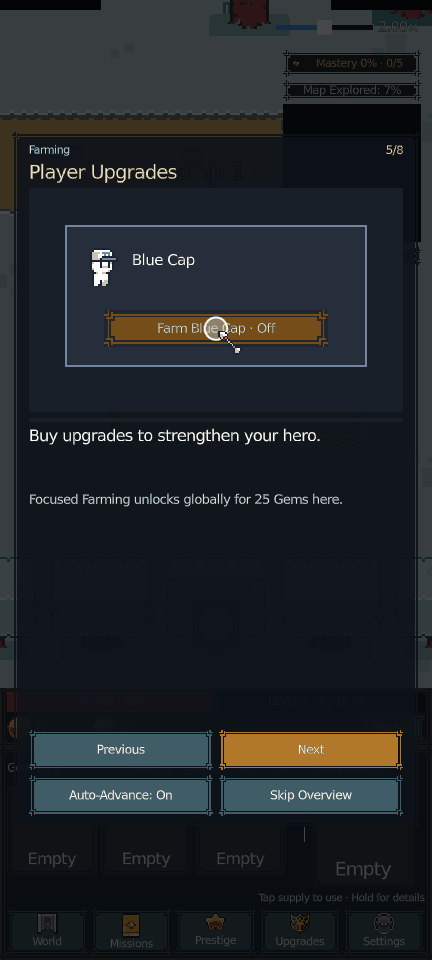
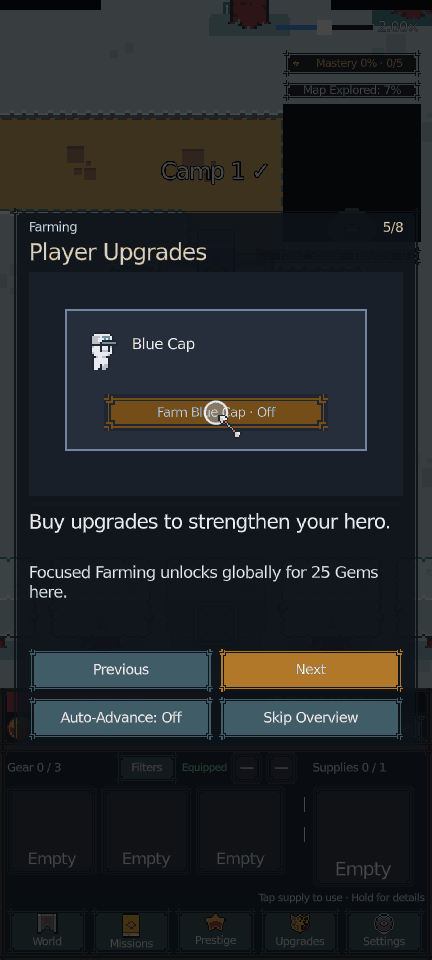
fix(change-65): compact tutorial card panel and Basic Auto-Advance off
- The card viewer is only as tall as its content; the empty band above
  the buttons is gone. Text is larger (title 36, action 31, support 25,
  note 22, buttons 22; was 30/25/20/18/19).
- Stable size: the title, action and support lines reserve the height of
  the longest card in the open sequence and current language (measured
  with the Label's line spacing). Moving between cards never resizes or
  moves the panel. The Basic note keeps its room on every opening card.
- The demo keeps the full-width 5:3 stage. On a screen shorter than the
  content it gives way first, recomputed each pass, so it never sticks
  small.
- The Basic opening starts with Auto-Advance off; the player can turn
  it on. Help keeps its saved preference (off by default).
- Probes 65/25/15/16/35 pass; captures at 432x960 and 540x960 have 0
  bounds problems; evidence images refreshed.

diff --git a/docs/LootFarmer_GDD.md b/docs/LootFarmer_GDD.md
@@ -8,8 +8,8 @@ Save schema 9 unchanged (the new records are normalized on load). This section s
 - **Enemy panel:** keeps **Farm / Stop** (the `Farm <enemy> · On/Off` action). Before the global unlock it is shown locked with "Buy Focused Farming once in Player Upgrades…" and an **Open Player Upgrades** button (Player tab); the enemy Upgrades tab has no Focused Farming purchase. **Auto-Collect** (and Range / Batch / Speed), **Auto-Merge** (and Merge Speed) and **Auto Evolution** stay per enemy type with their prices and rules.
 - **Migration (idempotent):** a save with any legacy `focus:<type>` record owns the global rank (no extra charge, **no Gem refund** — compensation for several old purchases is a separate decision); a save with none stays at 0; legacy records are removed so nothing can charge twice; other upgrades, currencies and the current farming choice are untouched; such a profile never replays the first-purchase Farm hint. The first purchase's Guided hint now points at the nearest discovered enemy whose farming spot is found (`campaign.farm_hint_group`), else only the "Focused Farming unlocked" confirmation; Basic and None get the confirmation only.
 - **One tutorial-card library (14 cards):** `scripts/game/help_cards.gd` (ids, categories, loop lengths, keys `HELP_CARD_<ID>_TITLE/_ACTION/_SUPPORT`), drawn by one viewer (`help_viewer.gd`) with one renderer (`help_demo.gd`: looping 6–8 s demonstrations drawn from the game's own art — hero sheet, enemy/item icons, Coin/Gem, joystick plates, the guide pointer, theme buttons — that never call a game action or change state). Order and categories: Combat (Movement & Combat, Choose Your Target, Skills & Supplies), Equipment (Collect & Equip, Merge Equipment, Weapon Evolution), Farming (Player Upgrades, Enemy Automation, Advanced Farming), Progression (Missions & Rewards, Explore & Teleport, Offline Rewards), Permanent Progression (Prestige, Map Details & Mastery). Numbers in demos are read from the catalog (evolution ^20 + spare copies, the Focus price).
-- **Viewer:** title, one action line, one support line, the demonstration; Previous / Next, position (N/8 or N/14), Auto-Advance (waits one loop and a reading time of 2.5 s + 0.32 s per word, minimum 6 s; never wraps), Back to Topics and Close (Help) or Skip Overview / Finish (Basic). One fixed panel size per screen size; buttons wrap rather than cut longer languages. While it is open the world is held (`sim.held`, like the review invitation). Back/Escape: Help → topics, Basic → skip. Demonstrations play only while visible and the app is in front; `reduced_motion` draws one key frame.
-- **Basic opening:** the first 8 cards in the viewer (Auto-Advance on), from the card it was last on after a reload; Finish, Skip Overview or Back end it for good (`tutorial.help.basic_done`). The last card adds "Want more help? Open Settings → Help & Tutorials. Pick a topic or read all 14 guides." The Road Ahead follows once, unchanged. A Basic save past the old six-card deck (or The Road Ahead) never sees the new opening.
+- **Viewer:** title, one action line, one support line (larger type: 36 / 31 / 25), the demonstration; the panel is only as tall as its content, reserving the longest card of the open sequence in the current language so it never resizes between cards; Previous / Next, position (N/8 or N/14), Auto-Advance (waits one loop and a reading time of 2.5 s + 0.32 s per word, minimum 6 s; never wraps), Back to Topics and Close (Help) or Skip Overview / Finish (Basic). Buttons wrap rather than cut longer languages. While it is open the world is held (`sim.held`, like the review invitation). Back/Escape: Help → topics, Basic → skip. Demonstrations play only while visible and the app is in front; `reduced_motion` draws one key frame.
+- **Basic opening:** the first 8 cards in the viewer (Auto-Advance off by default, the player can turn it on), from the card it was last on after a reload; Finish, Skip Overview or Back end it for good (`tutorial.help.basic_done`). The last card adds "Want more help? Open Settings → Help & Tutorials. Pick a topic or read all 14 guides." The Road Ahead follows once, unchanged. A Basic save past the old six-card deck (or The Road Ahead) never sees the new opening.
 - **Settings → Help & Tutorials** (all modes, never locked): landing with progress "Viewed n / 14", **Read All Tutorials**, **Continue: <last card>**, **Choose a Topic** → five categories (n/m viewed) → their cards (✓ Viewed / ● Not viewed). Next walks the whole library from any card. Reading never changes gameplay, discovery, menus or Guided lessons; a card about a system not reached yet explains it without unlocking it. A card counts as viewed on Next/Finish, on Close or Back to Topics after 1 s, or on a completed Auto-Advance wait. Progress `tutorial.help` {viewed ids, last id, auto, basic_done, basic_last} survives saves and Prestige; Hard Reset clears it; unknown ids are dropped on load.
 - **Discoverability:** the mode chooser shows one quiet line "You can explore Help & Tutorials anytime in Settings." Guided's THE ROAD AHEAD keeps its title, text and action and adds "Need a reminder later? Open Settings → Help & Tutorials for a guide to every system." None receives nothing else (no pointer, card or Help autoplay).
 - **Guided first manual attack:** from a fresh Guided profile until its `target` step is done, the hero acquires no target by itself (`guided_progress.auto_attack_gated`, read by `sim._combat_target`); enemies still aggro and attack, and damage, HP, drops and skills are unchanged. Dragging from the hero to a valid enemy selects it (caption "Good choice!"); the step completes on the hero's **first real hit** on that enemy (`sim._resolve_attack` → `guided.manual_attack`), not on the release. A dead or vanished target, moving, death or a reload (selections are never saved) return to the gesture. Then autoattack is on for good and one dismissible caption explains it: "Auto-Attack Enabled! Your hero now attacks nearby enemies automatically. Drag from your hero to an enemy whenever you want to change targets." (Got it, or 10 s on screen; placed like every caption, above the joystick). The 60 s no-enemy escape still passes the step and also turns autoattack on. Older saves past the first kill or the targeting step, finished tutorials, Basic and None are never gated. The 35 Guided steps are unchanged.
